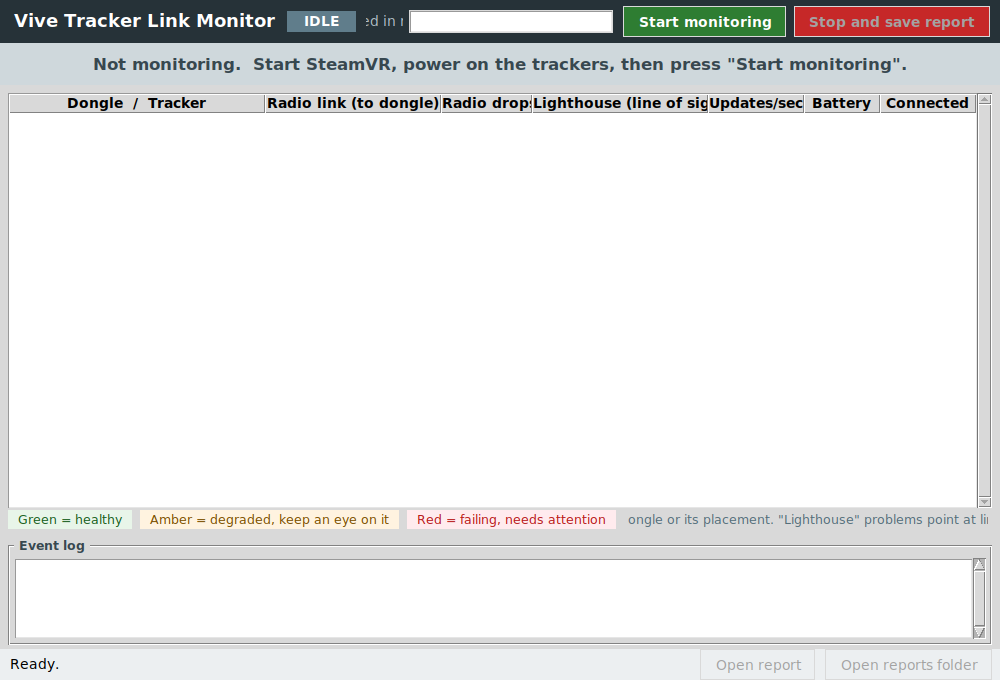
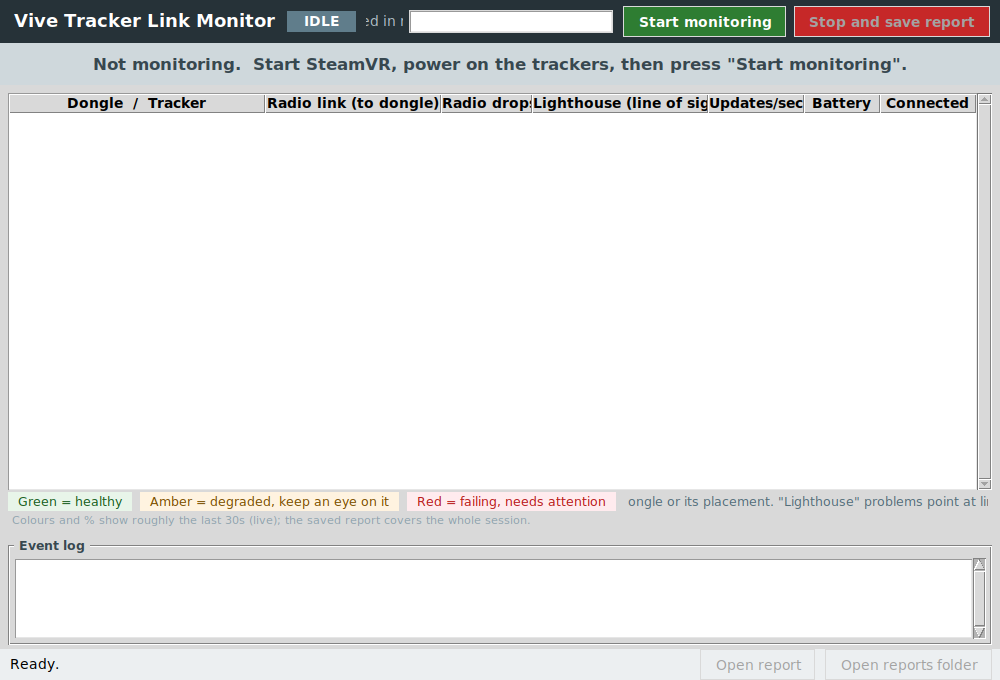
Base live view on a recent rolling window so recovered links clear
The live table colours and on-screen '% lost' came from cumulative
session-long figures, so loss accumulated while a tracker was out of range
kept it flagged as failing long after it had returned to range - the lifetime
average only drifts down slowly.

Track a 30s rolling per-second window in TrackerStat (recent_rf_loss_pct /
recent_optical_loss_pct, classify_recent) and drive the live table, row
colours and banner from it, so a recovered tracker clears within ~30s. The
saved report and CSV keep the full-session figures, which are what runs are
compared on. A legend line and the docs spell out the live-vs-session split.

Bump the title-bar build tag to 2026-06-10f and refresh the screenshots.

Changed region(s): [[0.0, 0.7103, 0.992, 0.8029]]

diff --git a/vive_rf_core.py b/vive_rf_core.py
@@ -37,6 +37,14 @@ BATTERY_PERIOD_S = 5.0
 CENSUS_PERIOD_S = 1.0       # how often the full device census is rebuilt
 STALL_MS = 60               # connected but no new input packet -> stall
 
+# The live view answers "is this link OK right now", so its colours and
+# percentages are computed over a recent rolling window rather than the whole
+# session. Without this, loss accumulated while a tracker was out of range
+# keeps a recovered tracker flagged as failing for a long time, because the
+# lifetime average only drifts back down slowly. The saved report still uses
+# the full-session figures.
+RECENT_WINDOW_S = 30
+
 # Classification thresholds (percent)
 RF_LOSS_WARN = 0.5
 RF_LOSS_CRIT = 2.0
@@ -119,6 +127,16 @@ class TrackerStat:
         self.first_issue_kind = ""
         self.last_issue_time = None
 
+        # Rolling per-second buckets for the "recent" (live) figures. Each
+        # completed second is (t_end, samples, rf_loss, connected, oor);
+        # buckets older than RECENT_WINDOW_S are evicted.
+        self._recent = deque()
+        self._rb_start = None
+        self._rb_samples = 0
+        self._rb_rf = 0
+        self._rb_conn = 0
+        self._rb_oor = 0
+
         self.first_seen = time.time()
 
     def label_or_serial(self):
@@ -135,6 +153,7 @@ class TrackerStat:
         self.samples += 1
         self.win_samples += 1
         connected = bool(pose.bDeviceIsConnected)
+        oor = False
         edge = None
 
         if connected:
@@ -146,6 +165,7 @@ class TrackerStat:
             if pose.eTrackingResult == openvr.TrackingResult_Running_OutOfRange:
                 self.out_of_range_samples += 1
                 self.win_oor += 1
+                oor = True
 
             if packet_num is not None:
                 if self.last_packet is None:
@@ -187,7 +207,48 @@ class TrackerStat:
             self.disconnect_start = None
             edge = "reconnect"
         self.was_connected = connected
+        self._update_recent(now, connected, oor)
         return edge
+
+    def _update_recent(self, now, connected, oor):
+        """Fold one sample into the rolling per-second window."""
+        if self._rb_start is None:
+            self._rb_start = now
+        self._rb_samples += 1
+        if connected:
+            self._rb_conn += 1
+            if oor:
+                self._rb_oor += 1
+        else:
+            self._rb_rf += 1
+        if now - self._rb_start >= 1.0:
+            self._recent.append((now, self._rb_samples, self._rb_rf,
+                                 self._rb_conn, self._rb_oor))
+            self._rb_start = now
+            self._rb_samples = self._rb_rf = self._rb_conn = self._rb_oor = 0
+            cutoff = now - RECENT_WINDOW_S
+            while self._recent and self._recent[0][0] < cutoff:
+                self._recent.popleft()
+
+    def _recent_totals(self):
+        s, rf, conn, oor = (self._rb_samples, self._rb_rf,
+                            self._rb_conn, self._rb_oor)
+        for _, bs, brf, bconn, boor in self._recent:
+            s += bs
+            rf += brf
+            conn += bconn
+            oor += boor
+        return s, rf, conn, oor
+
+    @property
+    def recent_rf_loss_pct(self):
+        s, rf, _, _ = self._recent_totals()
+        return 100.0 * rf / s if s else 0.0
+
+    @property
+    def recent_optical_loss_pct(self):
+        _, _, conn, oor = self._recent_totals()
+        return 100.0 * oor / conn if conn else 0.0
 
     def finalize(self, now):
         if self.in_disconnect and self.disconnect_start is not None:
@@ -211,13 +272,11 @@ class TrackerStat:
             return None
         return self.packet_increments / self.connected_elapsed_s
 
-    def classify(self):
-        """Return (label, severity, family) for the dominant problem."""
-        rf = self.rf_loss_pct
-        opt = self.optical_loss_pct
+    @staticmethod
+    def _classify(rf, opt, stalls):
         if rf >= RF_LOSS_CRIT:
             return "Radio failing (dongle)", CRIT, "rf"
-        if rf >= RF_LOSS_WARN or self.stall_events > 0:
+        if rf >= RF_LOSS_WARN or stalls > 0:
             return "Radio weak (dongle)", WARN, "rf"
         if opt >= OPTICAL_CRIT:
             return "Lighthouse blocked", CRIT, "optic"
@@ -225,8 +284,19 @@ class TrackerStat:
             return "Lighthouse marginal", WARN, "optic"
         return "Healthy", HEALTHY, "ok"
 
+    def classify(self):
+        """(label, severity, family) for the dominant problem over the run."""
+        return self._classify(self.rf_loss_pct, self.optical_loss_pct,
+                              self.stall_events)
+
+    def classify_recent(self):
+        """As classify() but over the recent window - drives the live view."""
+        return self._classify(self.recent_rf_loss_pct,
+                              self.recent_optical_loss_pct, 0)
+
     def to_row(self):
         label, sev, family = self.classify()
+        recent_label, recent_sev, recent_family = self.classify_recent()
         return {
             "serial": self.serial,
             "name": self.name,
@@ -238,6 +308,13 @@ class TrackerStat:
             "family": family,
             "rf_loss_pct": self.rf_loss_pct,
             "optical_loss_pct": self.optical_loss_pct,
+            # Recent-window figures drive the live view so it tracks current
+            # health; the cumulative figures above feed the saved report.
+            "recent_rf_loss_pct": self.recent_rf_loss_pct,
+            "recent_optical_loss_pct": self.recent_optical_loss_pct,
+            "recent_label": recent_label,
+            "recent_severity": recent_sev,
+            "recent_family": recent_family,
             "update_hz": self.update_hz,
             "battery": self.battery,
             "disconnect_events": self.disconnect_events,
@@ -398,7 +475,9 @@ def build_report_lines(site, snap, generated=None):
     out.append(("h2", "DONGLES (worst radio link first)"))
     emit("note", "Radio loss = tracker could not reach this dongle. "
          "Lighthouse loss = tracker could not see the base stations "
-         "(not a dongle problem).")
+         "(not a dongle problem). All percentages are for the whole "
+         "session; the live view showed roughly the last "
+         f"{RECENT_WINDOW_S:.0f}s.")
     out.append(("header", f"  {'dongle':<18}{'trackers':>9}  "
                 f"{'radio link':<22}{'radio drops':>11}{'stalls':>8}  "
                 f"{'lighthouse':<22}"))
@@ -815,6 +894,8 @@ class RFMonitor(threading.Thread):
                 "count": len(group),
                 "rf_loss_pct": sum(g["rf_loss_pct"] for g in group) / len(group),
                 "optical_loss_pct": sum(g["optical_loss_pct"] for g in group) / len(group),
+                "recent_rf_loss_pct": sum(g["recent_rf_loss_pct"] for g in group) / len(group),
+                "recent_optical_loss_pct": sum(g["recent_optical_loss_pct"] for g in group) / len(group),
                 "dropouts": sum(g["disconnect_events"] for g in group),
                 "stalls": sum(g["stall_events"] for g in group),
             }

diff --git a/vive_dongle_gui.py b/vive_dongle_gui.py
@@ -17,7 +17,7 @@ from tkinter import ttk, scrolledtext, messagebox
 import vive_rf_core as core
 
 APP_TITLE = "Vive Tracker Link Monitor"
-APP_VERSION = "2026-06-10e"   # shown in the title bar to confirm the build
+APP_VERSION = "2026-06-10f"   # shown in the title bar to confirm the build
 
 # fg / bg per severity
 SEV_STYLE = {
@@ -143,12 +143,18 @@ class MonitorApp:
     def _build_legend(self):
         frame = tk.Frame(self.root)
         frame.pack(fill="x", padx=8, pady=(0, 4))
+        row = tk.Frame(frame)
+        row.pack(fill="x")
         for sev, text in LEGEND:
             fg, bg = SEV_STYLE[sev]
-            tk.Label(frame, text="  " + text + "  ", fg=fg, bg=bg,
+            tk.Label(row, text="  " + text + "  ", fg=fg, bg=bg,
                      font=("Segoe UI", 9)).pack(side="left", padx=(0, 8))
-        tk.Label(frame, text=LEGEND_HINT, fg="#546e7a",
+        tk.Label(row, text=LEGEND_HINT, fg="#546e7a",
                  font=("Segoe UI", 9)).pack(side="left", padx=4)
+        tk.Label(frame, text=f"Colours and % show roughly the last "
+                 f"{core.RECENT_WINDOW_S:.0f}s (live); the saved report "
+                 f"covers the whole session.", fg="#90a4ae",
+                 font=("Segoe UI", 8)).pack(anchor="w", padx=2)
 
     def _build_event_log(self):
         frame = tk.LabelFrame(self.root, text=" Event log ",
@@ -410,13 +416,13 @@ class MonitorApp:
         worst_dongle = None
         worst_loss = 0.0
         for dongle, a in snap["aggregates"].items():
-            sev = core.severity(a["rf_loss_pct"],
-                                core.RF_LOSS_WARN, core.RF_LOSS_CRIT)
+            loss = a["recent_rf_loss_pct"]   # live banner = current health
+            sev = core.severity(loss, core.RF_LOSS_WARN, core.RF_LOSS_CRIT)
             if sev == core.CRIT or (sev == core.WARN and worst_key != core.CRIT):
-                if a["rf_loss_pct"] > worst_loss:
+                if loss > worst_loss:
                     worst_key = sev
                     worst_dongle = dongle
-                    worst_loss = a["rf_loss_pct"]
+                    worst_loss = loss
         if worst_key == core.CRIT:
             self._set_banner(core.CRIT,
                              f"PROBLEM: dongle {worst_dongle} is losing its "
@@ -469,12 +475,13 @@ class MonitorApp:
             self._census_node = None
         for dongle in sorted(snap["by_dongle"]):
             a = snap["aggregates"][dongle]
-            rf_word, _ = core.rf_verdict(a["rf_loss_pct"])
-            op_word, _ = core.optical_verdict(a["optical_loss_pct"])
+            # Live view uses the recent window so it tracks current health.
+            rf_word, _ = core.rf_verdict(a["recent_rf_loss_pct"])
+            op_word, _ = core.optical_verdict(a["recent_optical_loss_pct"])
             d_text = f"Dongle {dongle}   ({a['count']} tracker(s))"
-            d_vals = (f"{rf_word}  -  {a['rf_loss_pct']:.2f}% lost",
+            d_vals = (f"{rf_word}  -  {a['recent_rf_loss_pct']:.2f}% lost",
                       a["dropouts"],
-                      f"{op_word}  -  {a['optical_loss_pct']:.2f}% lost",
+                      f"{op_word}  -  {a['recent_optical_loss_pct']:.2f}% lost",
                       "", "", "")
             node = self._dongle_nodes.get(dongle)
             if node is None:
@@ -489,13 +496,15 @@ class MonitorApp:
                 iid = f"{dongle}/{r['serial']}"
                 batt = (f"{r['battery']:.0f}%" if r["battery"] is not None
                         else "?")
-                rf_word, _ = core.rf_verdict(r["rf_loss_pct"])
-                op_word, _ = core.optical_verdict(r["optical_loss_pct"])
+                # Live view: recent-window verdicts and colour so a recovered
+                # link clears within ~30s instead of staying red all session.
+                rf_word, _ = core.rf_verdict(r["recent_rf_loss_pct"])
+                op_word, _ = core.optical_verdict(r["recent_optical_loss_pct"])
                 hz = ("n/a" if r["update_hz"] is None
                       else f"{r['update_hz']:.0f}")
-                vals = (f"{rf_word}  -  {r['rf_loss_pct']:.2f}% lost",
+                vals = (f"{rf_word}  -  {r['recent_rf_loss_pct']:.2f}% lost",
                         r["disconnect_events"],
-                        f"{op_word}  -  {r['optical_loss_pct']:.2f}% lost",
+                        f"{op_word}  -  {r['recent_optical_loss_pct']:.2f}% lost",
                         hz,
                         batt,
                         "Up" if r["connected"] else "DOWN")
@@ -504,11 +513,11 @@ class MonitorApp:
                          else r["serial"])
                 if self.tree.exists(iid):
                     self.tree.item(iid, text="    " + label, values=vals,
-                                   tags=(r["severity"],))
+                                   tags=(r["recent_severity"],))
                 else:
                     self.tree.insert(node, "end", iid=iid,
                                      text="    " + label,
-                                     values=vals, tags=(r["severity"],))
+                                     values=vals, tags=(r["recent_severity"],))
 
     def _log_line(self, kind, msg, ts=None):
         stamp = (ts or datetime.now()).strftime("%H:%M:%S")

diff --git a/tools/make_screenshots.py b/tools/make_screenshots.py
@@ -54,6 +54,15 @@ def make_tracker(serial, dongle, name, rf_pct, opt_pct, hz, batt, drops,
     st.first_issue_time = first_issue
     st.first_issue_kind = first_kind
     st.last_issue_time = last_issue
+    # Fill the recent rolling window to match the current state, so the live
+    # view (which reads recent_*) shows the same verdict as the cumulative one.
+    per_sec = 250
+    nb = core.RECENT_WINDOW_S
+    for k in range(nb):
+        rf = int(round(per_sec * rf_pct / 100.0))
+        conn = per_sec - rf
+        oor = int(round(conn * opt_pct / 100.0))
+        st._recent.append((time.time() - (nb - k), per_sec, rf, conn, oor))
     return st
 
 

diff --git a/README.md b/README.md
@@ -41,7 +41,11 @@ RF, not to the lighthouses.
 
 - **Status banner** - one line, always answering "is anything wrong right
   now": green (all radio links healthy), amber (a dongle shows a weak link),
-  red (a dongle is failing, named in the banner).
+  red (a dongle is failing, named in the banner). The banner, the row colours
+  and the on-screen "% lost" reflect a recent rolling window (about the last
+  30 s) so a tracker moved back into range clears within seconds rather than
+  staying flagged for the whole run. The saved report keeps the full-session
+  figures.
 - **Table** - trackers grouped under the dongle they are paired with,
   colour-coded per row. Every row carries two independent verdicts side by
   side, each with the percentage of time lost: "Radio link (to dongle)",

diff --git a/docs/HOW_TO_USE.md b/docs/HOW_TO_USE.md
@@ -86,6 +86,13 @@ The colour and side tell you where to look:
 Let a session run long enough to be representative (move the rig through the
 poses/area you care about) before stopping.
 
+> **Live figures are "right now", not the whole run.** The colours and the
+> "% lost" in the table reflect roughly the **last 30 seconds**, so when a
+> tracker is moved back into range it clears from red to green within ~30 s
+> instead of staying flagged for the rest of the session. The **saved report**
+> (next step) uses the **full-session** figures, which is what you want for
+> comparing runs.
+
 ---
 
 ## Step 3 — Stop and save the report
